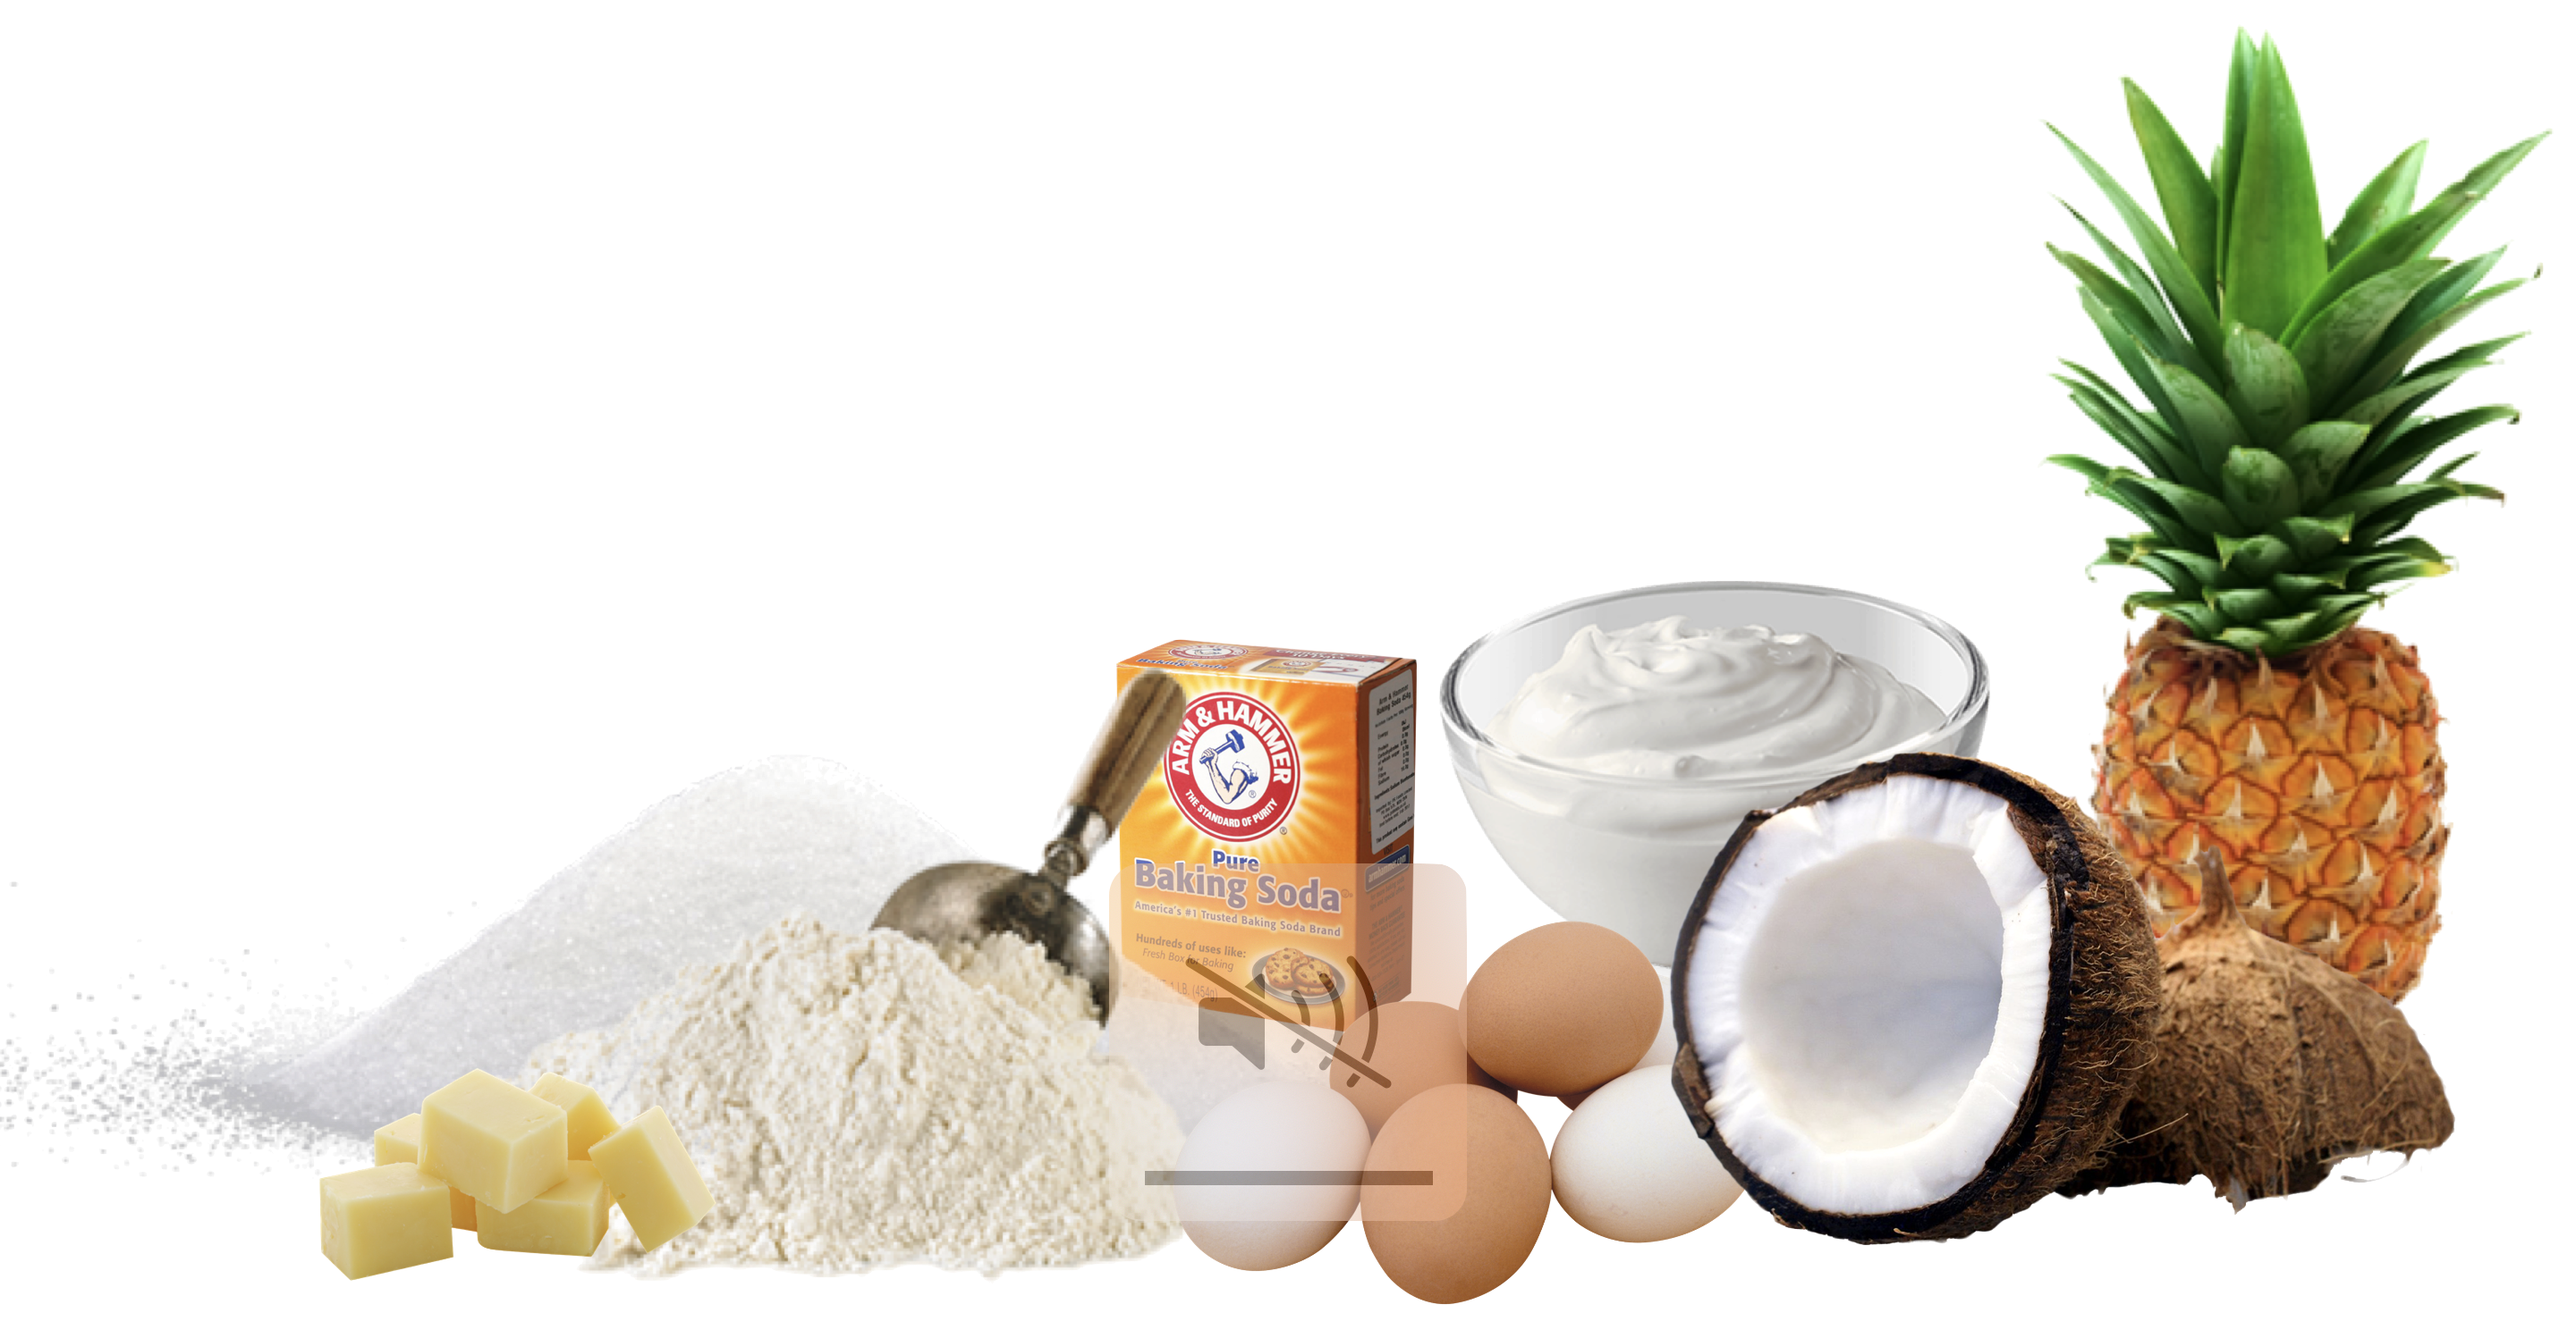
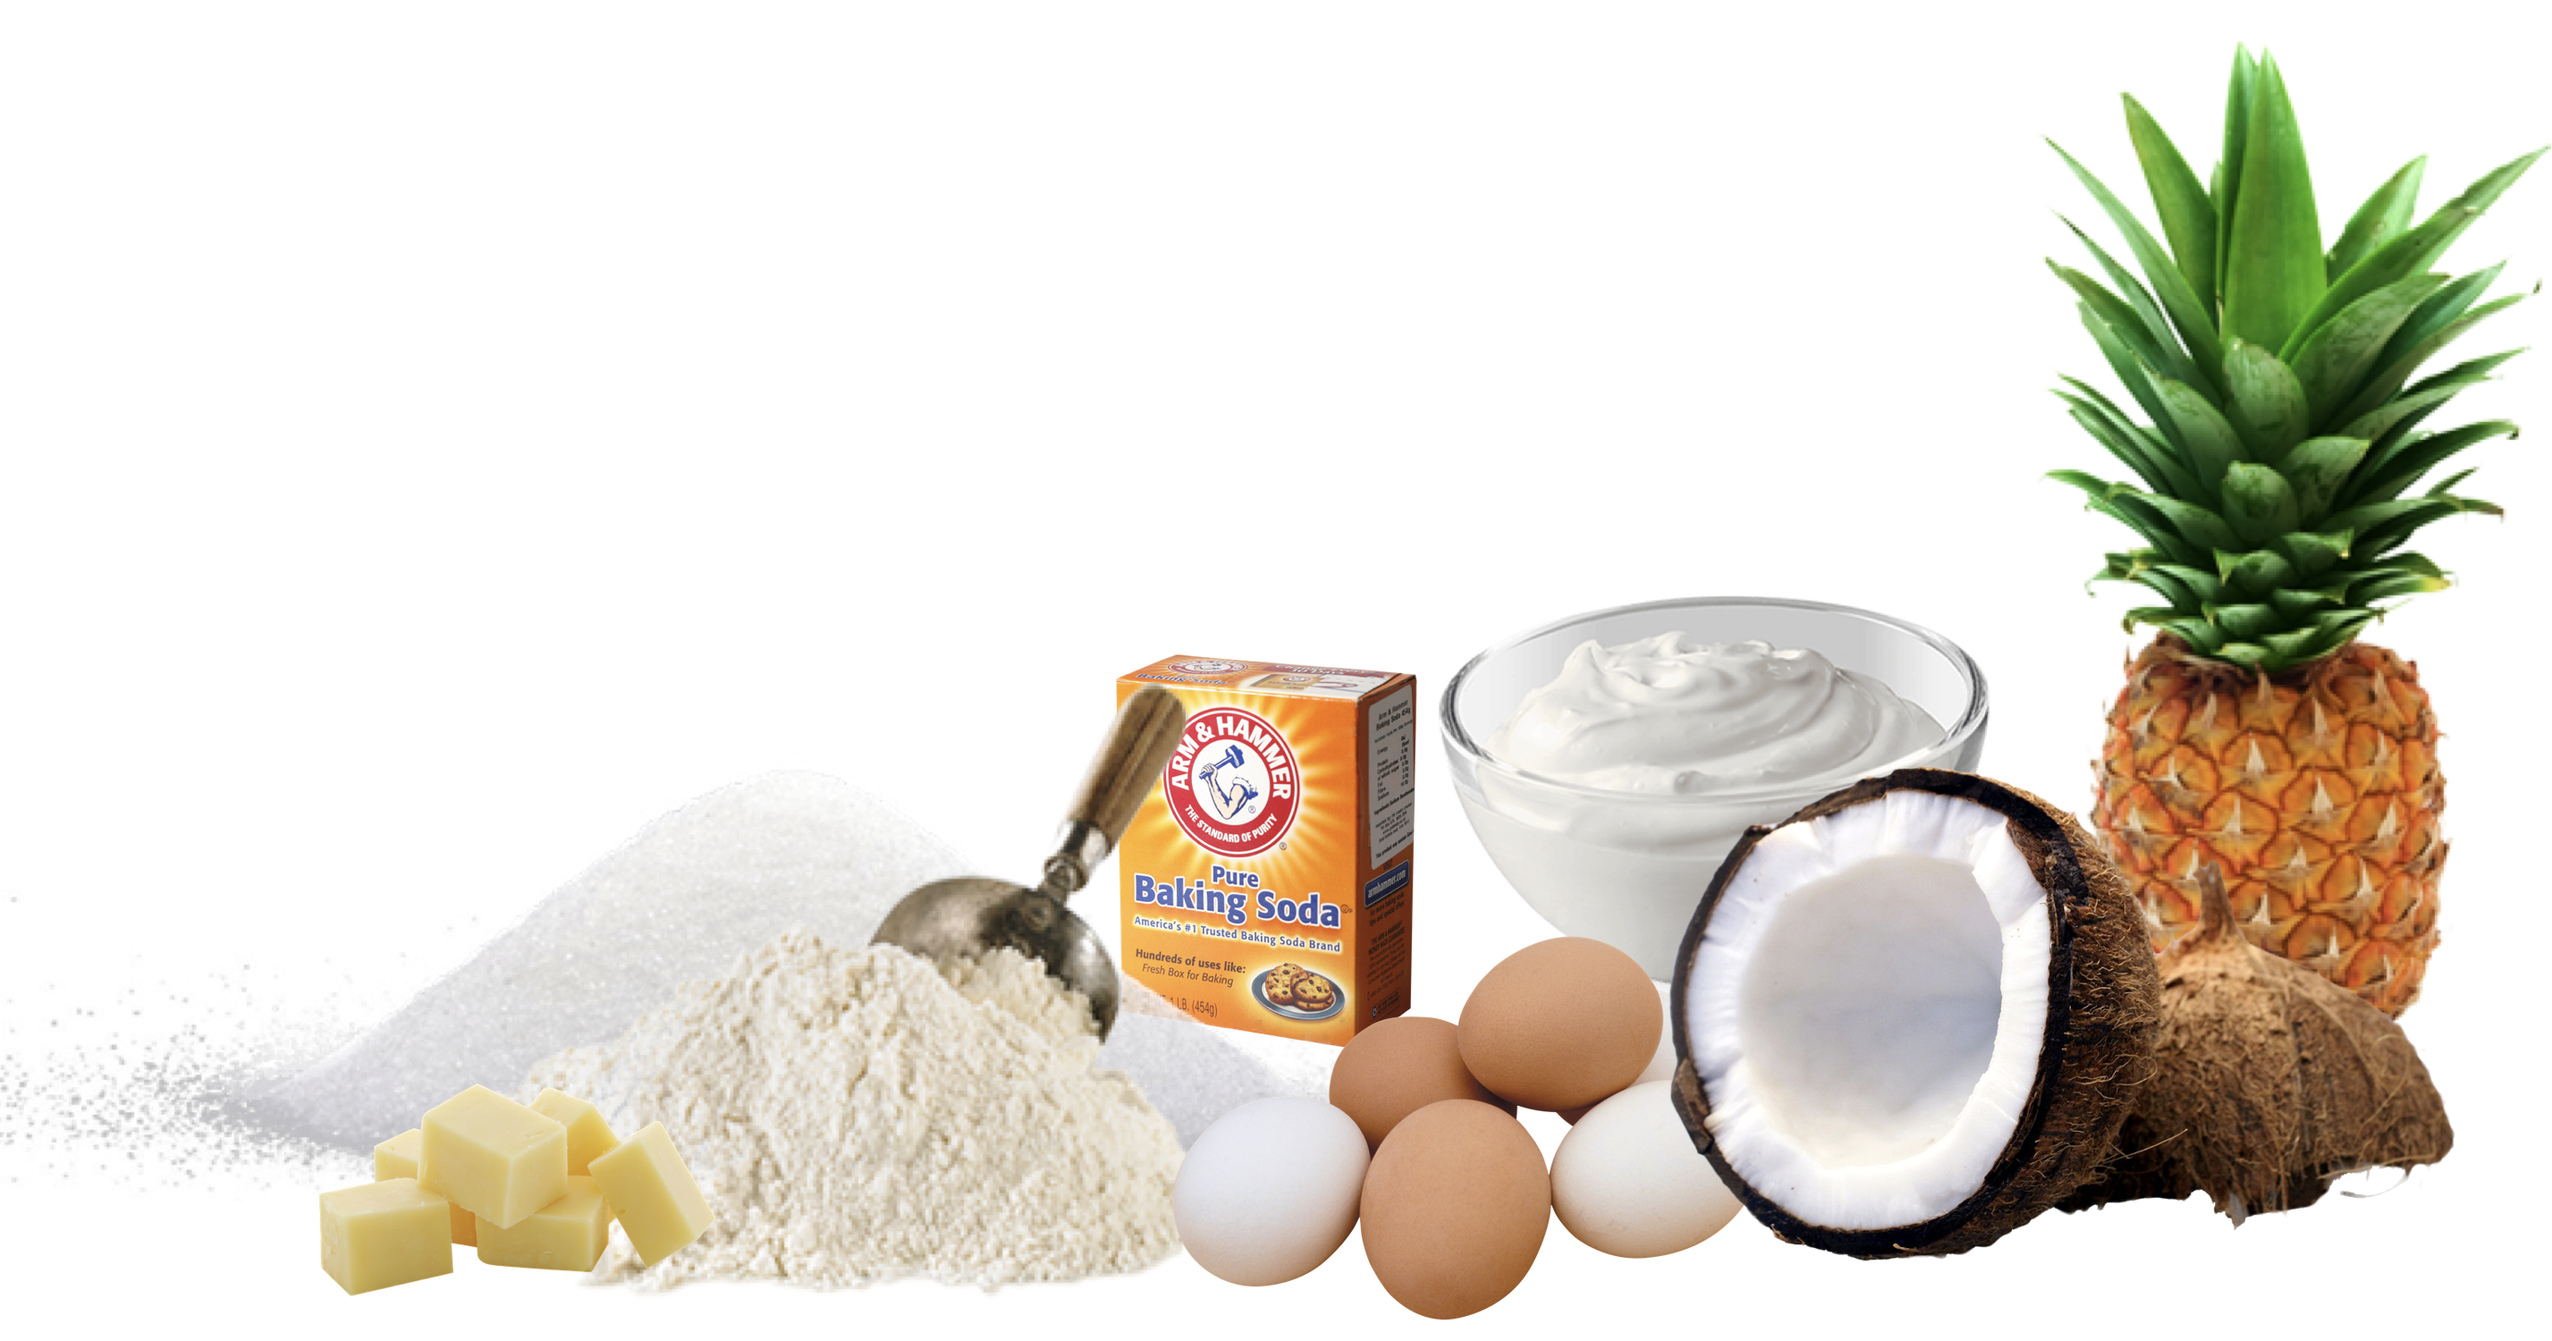
Fix audio/video stuff

Changed region(s): [[0.0, 0.0309, 1.0, 0.9583], [0.5613, 0.9583, 0.5925, 0.9892]]

diff --git a/slides/01-curriculum/01-curriculum.html b/slides/01-curriculum/01-curriculum.html
@@ -224,7 +224,7 @@ background-size: cover
 class: center, middle
 
 .cutout[
-Pinapple and coconut sandwich
+Pinapple and coconut sandwich cake
 ]
 
 ---
@@ -234,7 +234,7 @@ background-size: cover
 class: center, middle
 
 .cutout[
-Pinapple and coconut sandwich
+Pinapple and coconut sandwich cake
 &lt;img src="images/cake-ingredients.png" width="70%" style="display: block; margin: auto;" /&gt;
 ]
 
@@ -245,7 +245,7 @@ background-size: cover
 class: center, middle
 
 .cutout[
-Pinapple and coconut sandwich ▶
+Pinapple and coconut sandwich cake ▶
 &lt;img src="images/cake-ingredients.png" width="70%" style="display: block; margin: auto;" /&gt;
 ]
 
@@ -255,13 +255,7 @@ Pinapple and coconut sandwich ▶
 
 class: center, middle
 
-&lt;!--
-&lt;video width="800" height="600"&gt;
-&lt;source src="images/cake-video.mov" type="video/mp4"&gt;
-&lt;/video&gt;
-
-&lt;embed src="images/cake-video.mov" width="800" height="600"&gt;&lt;/embed&gt;
---&gt;
+&lt;iframe width="853" height="480" src="https://www.youtube.com/embed/1ynPv3GMLP4" frameborder="0" allow="accelerometer; autoplay; encrypted-media; gyroscope; picture-in-picture" allowfullscreen&gt;&lt;/iframe&gt;
 
 ---
 
